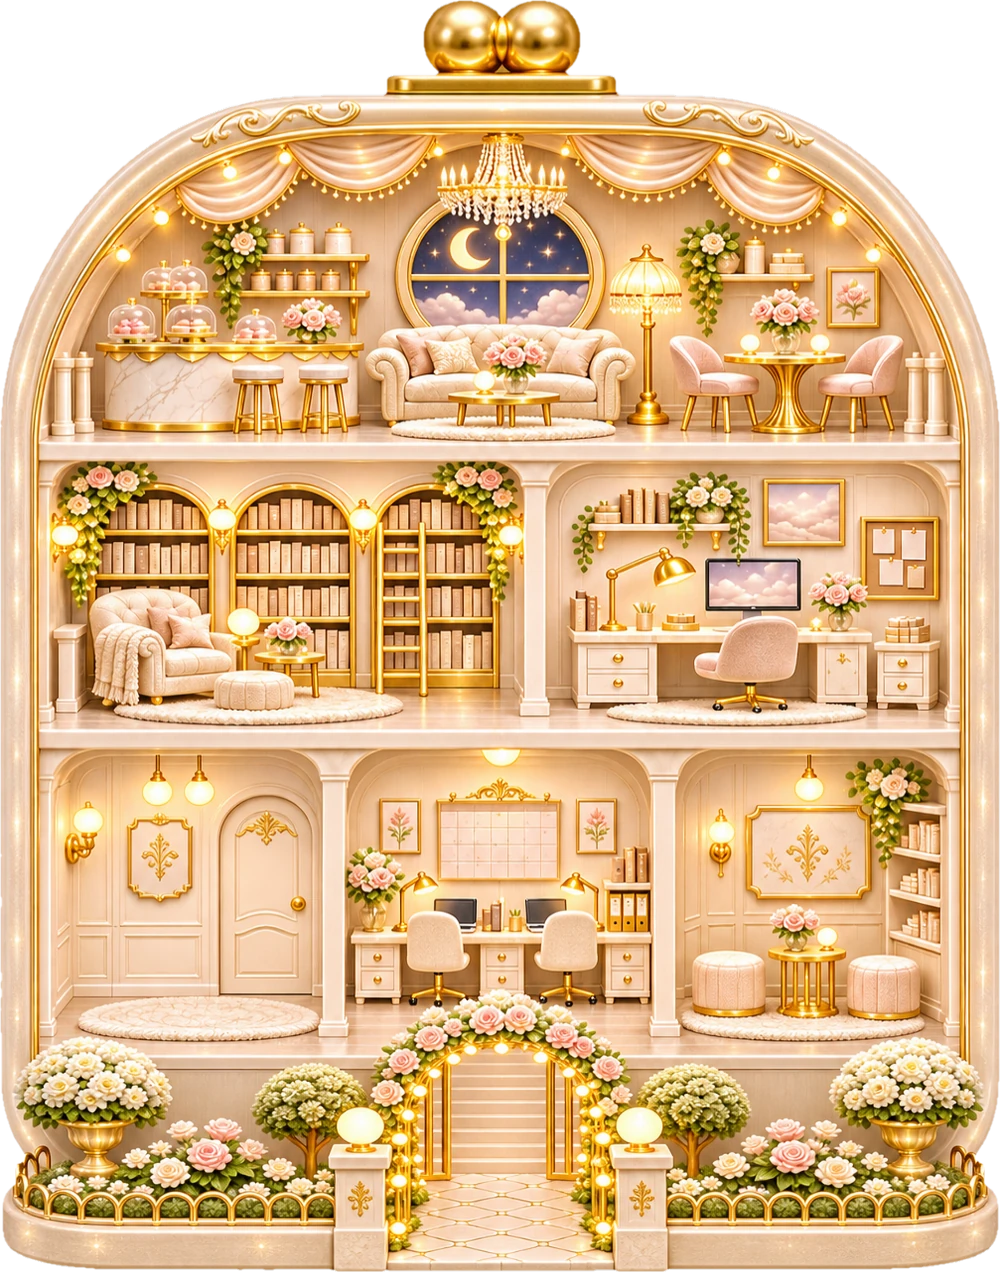
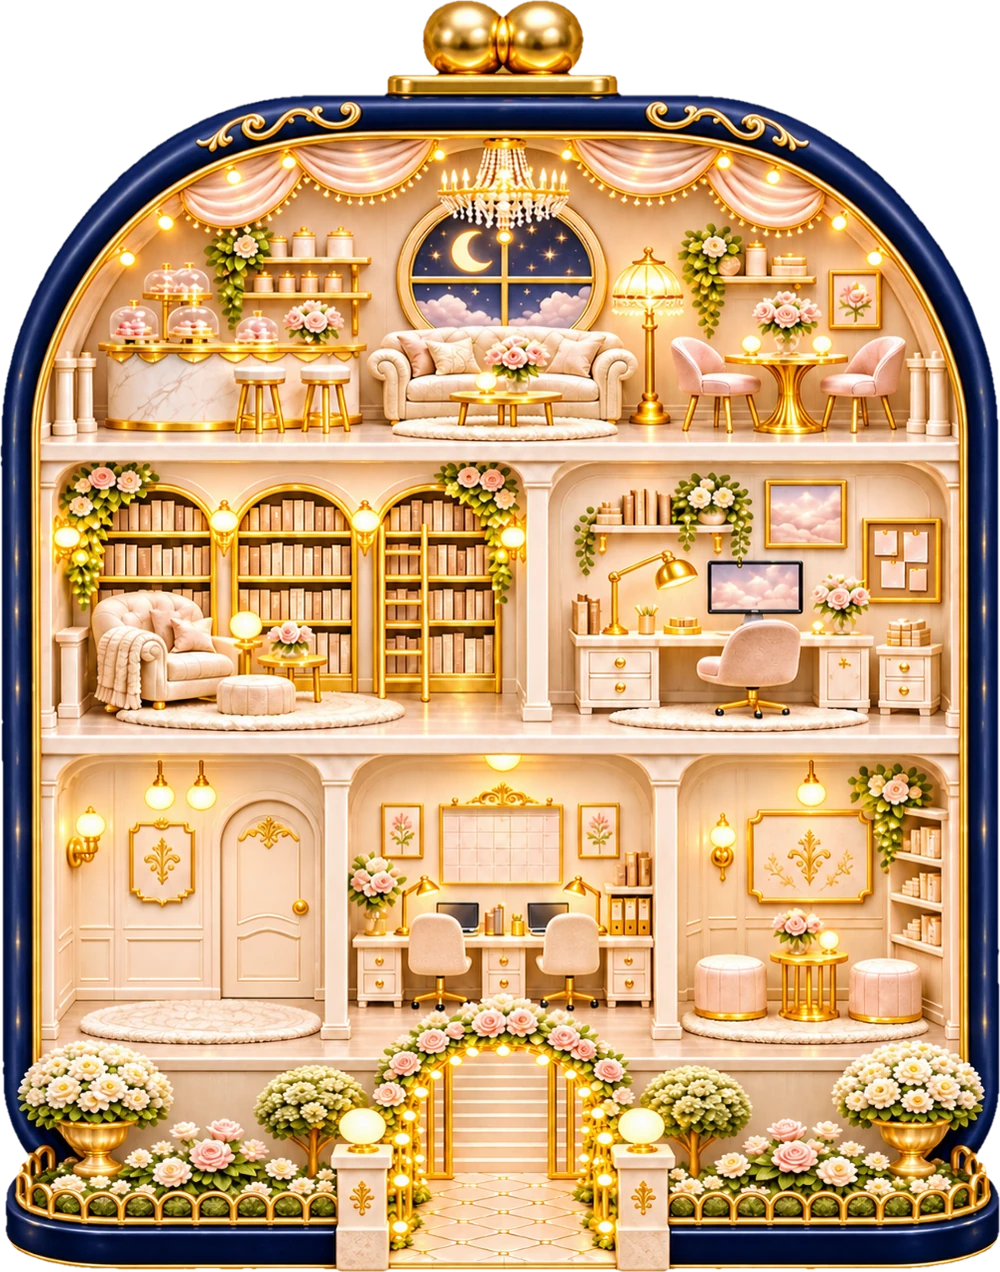
바다·웨딩 하우스를 새 그림으로 교체, 카펫 높이는 아래 20 기준
Claude-Session: https://claude.ai/code/session_011wWXPaiuu8PZPFdYFKdKKY

diff --git a/tools/process_assets.py b/tools/process_assets.py
@@ -195,11 +195,11 @@ def skin_house(src, key):
     rgba = Image.fromarray(np.dstack([np.asarray(im)[:, :, :3], (al * 255).astype(np.uint8)]), 'RGBA')
     rgba = trim(rgba)
     rgba = rgba.resize((1000, round(rgba.height * 1000 / rgba.width)), Image.LANCZOS)
-    if key in ('wedding', 'wood'):
+    if key in ('wedding', 'wood', 'sea'):
         # 그림이 더 길어서 위에서 아래로 전체를 1272에 맞춰 넣어요. 카펫 중앙이 아바타 발 아래 20쯤 (428·710·1022)에 오게
         # (원본 1000폭 기준 카펫 중앙: 다락 453 · 2층 765 · 1층 1090)
         H = rgba.height
-        src_rug = {'wedding': (453, 765, 1090), 'wood': (405, 685, 945)}[key]  # 원본(1000폭)에서 층 카펫 중앙의 높이
+        src_rug = {'wedding': (462, 768, 1095), 'wood': (405, 685, 945), 'sea': (383, 668, 967)}[key]  # 원본(1000폭)에서 층 카펫 중앙의 높이
         pts = [(0, 0), (428, src_rug[0] - 428), (710, src_rug[1] - 710), (1022, src_rug[2] - 1022), (1272, H - 1272)]
         return align_floors(rgba.crop((0, 0, 1000, H)).resize((1000, H)), pts, 1272)
     return align_floors(rgba, SKIN_FLOOR_SHIFT[key], 1272)
